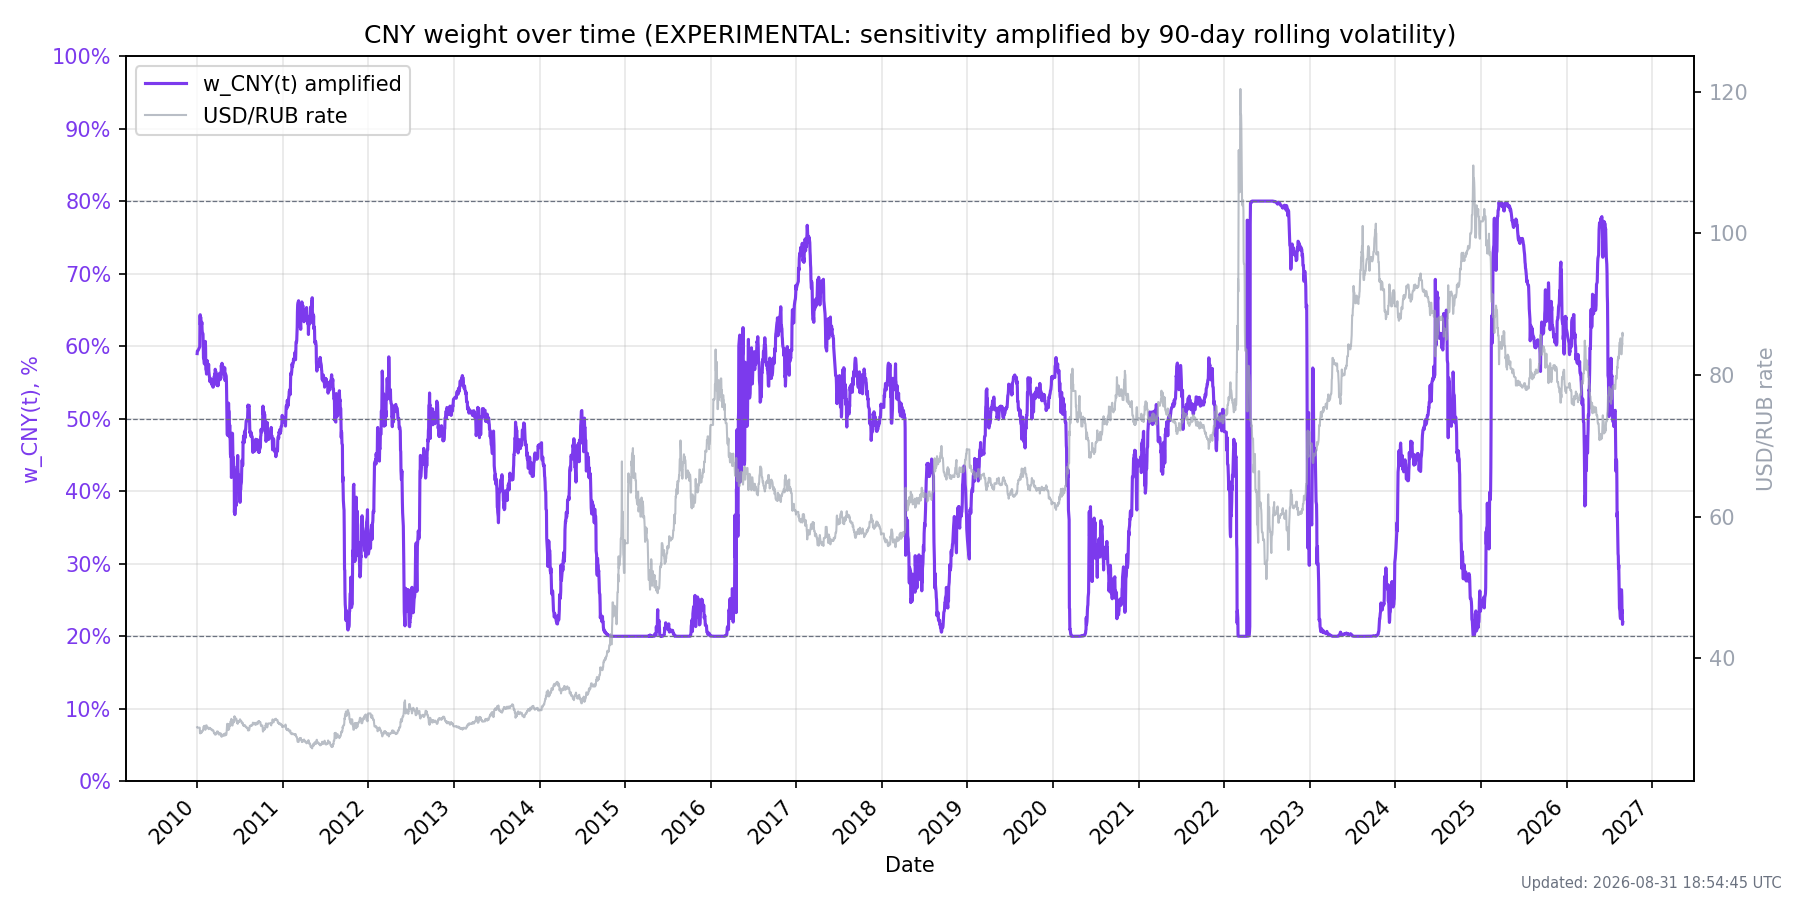
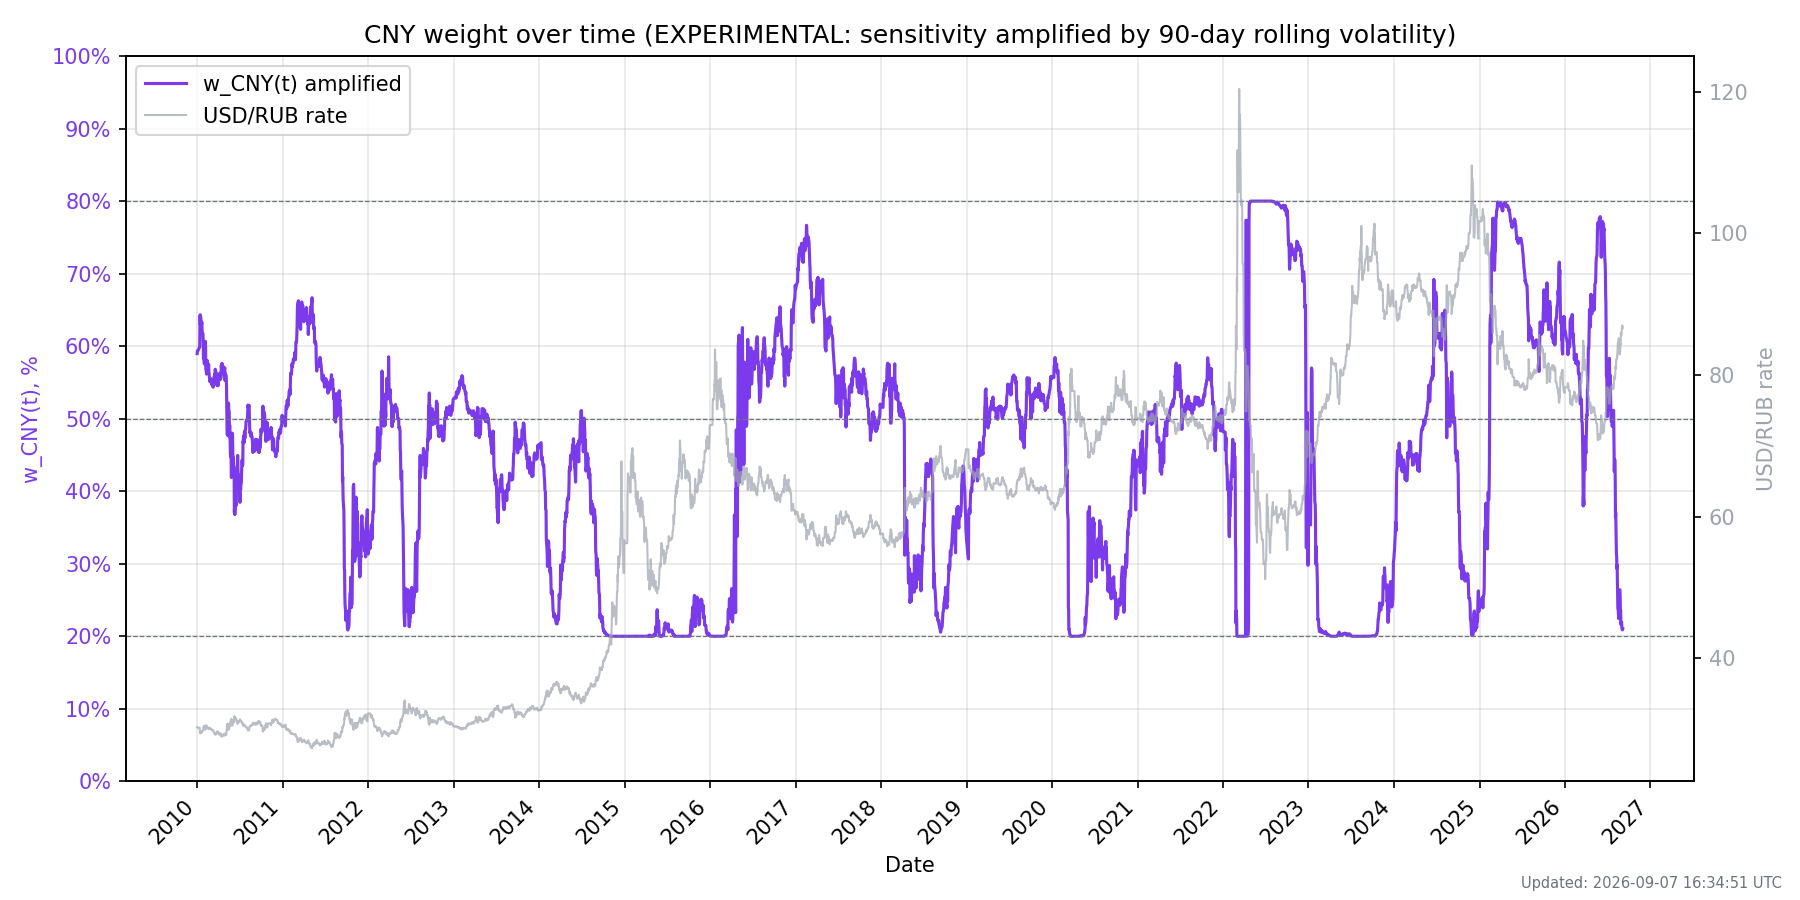
update

diff --git a/usd_rub_tracker/REPORT.md b/usd_rub_tracker/REPORT.md
@@ -1,9 +1,9 @@
 # USD/RUB Weight Report
 
-**Date:** 2026-09-06
-**Updated:** 2026-09-06 15:23:38 UTC
+**Date:** 2026-09-07
+**Updated:** 2026-09-07 16:34:51 UTC
 
-- Current USD/RUB rate (x): **86.5857**
+- Current USD/RUB rate (x): **86.1909**
 - 365-day average USD/RUB rate (m): **78.6025**
 - w_CNY(x): **31%**
 - w_RUB(x): **69%**
